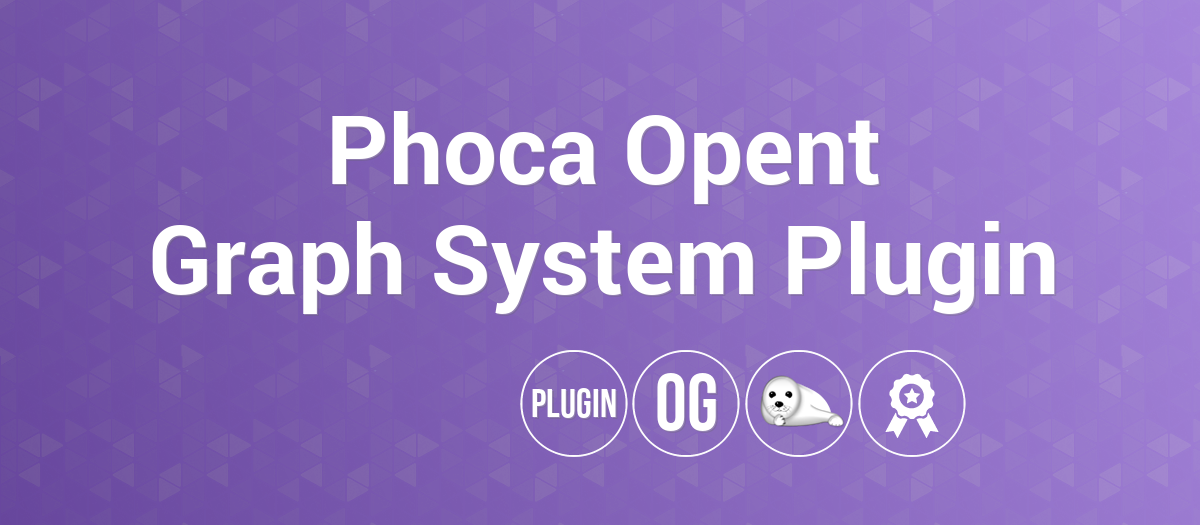
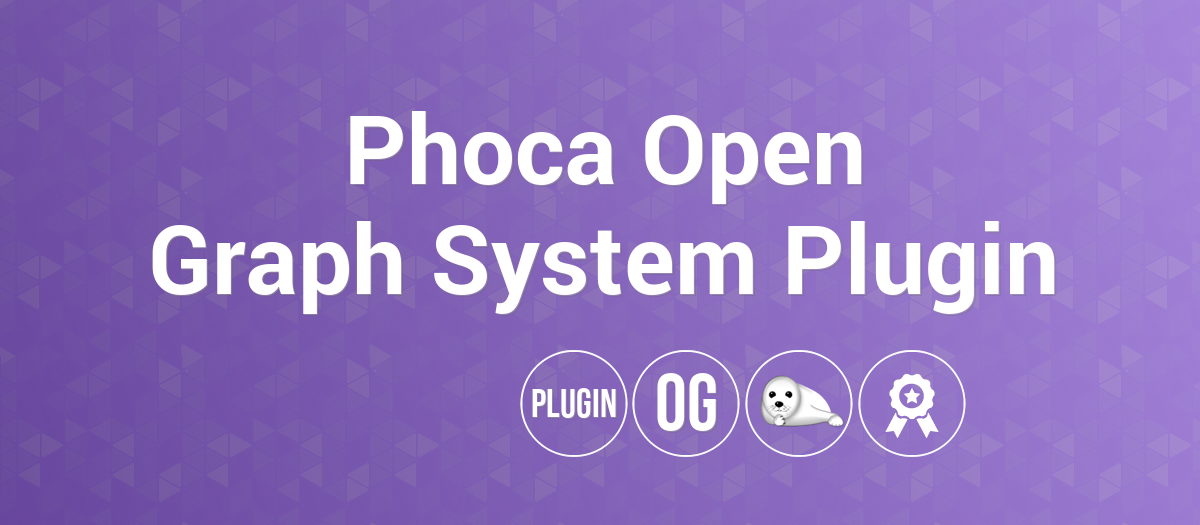
3.0.5
3.0.5

Changed region(s): [[0.2775, 0.2133, 0.74, 0.3962]]

diff --git a/README.MD b/README.MD
@@ -2,9 +2,9 @@
 
 
 
-![Phoca Opent Graph System Plugin](https://github.com/PhocaCz/PhocaOpenGraphSystemPlugin/blob/master/phocaopengraph.png)
+![Phoca Open Graph System Plugin](https://github.com/PhocaCz/PhocaOpenGraphSystemPlugin/blob/master/phocaopengraph.png)
 
-# Phoca Opent Graph System Plugin
+# Phoca Open Graph System Plugin
 
 
 
@@ -14,7 +14,7 @@ Phoca Open Graph System Plugin is a Joomla! CMS Plugin. It allows adding of open
 
 ## Project page
 
-[Phoca Opent Graph System Plugin](https://www.phoca.cz/phoca-open-graph-system-plugin)
+[Phoca Open Graph System Plugin](https://www.phoca.cz/phoca-open-graph-system-plugin)
 
 
 
